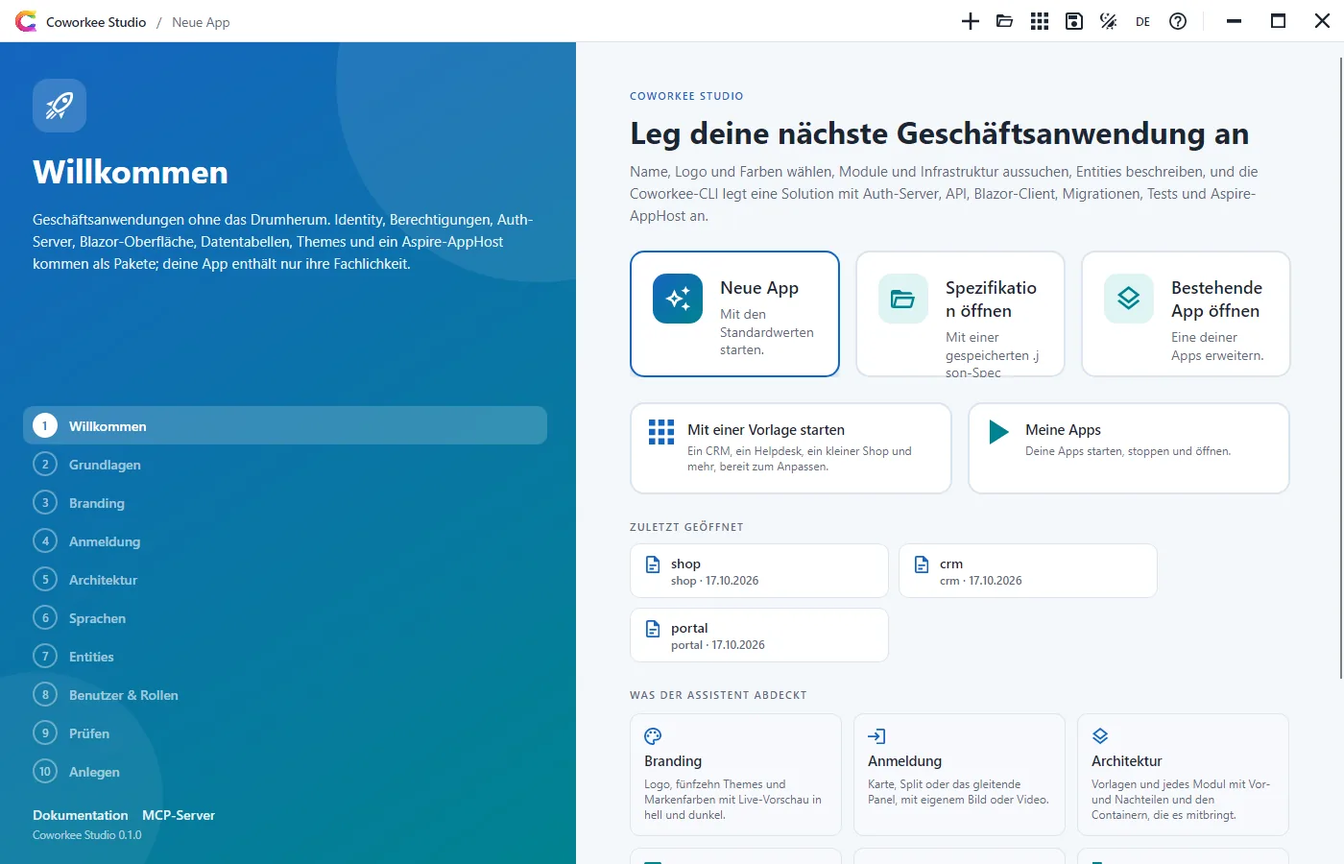
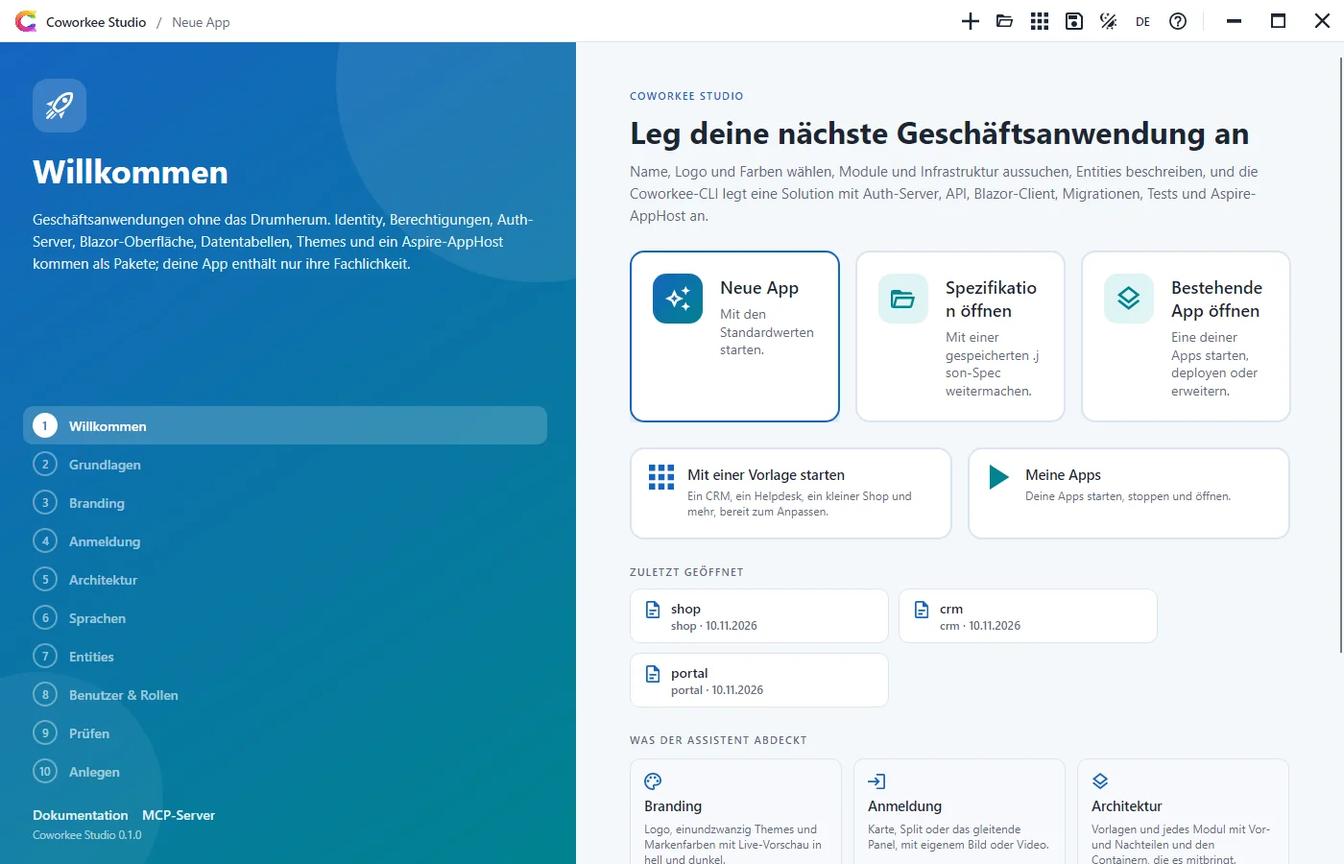
docs: Studio screenshots of the app overview, the Azure deploy wizard and the GitHub workflow editor; deploy to Azure on the home page; the Azure deployment is verified; Studio tiles and deploy card no longer cut their texts

diff --git a/website/overrides/home.html b/website/overrides/home.html
@@ -42,7 +42,10 @@
   "cli_doc": ("Alle Befehle" if de else "All commands"),
   "gallery_doc": ("Startvorlagen und Mini-Assistent" if de else "Starter specs and a mini wizard"),
   "studio": ("Lieber mit Oberfläche? Coworkee Studio" if de else "Prefer a UI? Coworkee Studio"),
-  "studio_t": ("<code>coworkee ui</code> installiert und startet Coworkee Studio, die Desktop-App zum CLI (Tool-Befehl <code>coworkee-ui</code>). Ein Assistent führt durch Name, Logo und Theme, Anmeldung, Module und Infrastruktur und deine Entities, zeigt Vor- und Nachteile jeder Wahl, legt die App an und startet sie." if de else "<code>coworkee ui</code> installs and starts Coworkee Studio, the desktop app for the CLI (tool command <code>coworkee-ui</code>). A wizard walks through name, logo and theme, sign-in, modules, infrastructure and your entities, shows what each choice brings and costs, creates the app and runs it."),
+  "studio_t": ("<code>coworkee ui</code> installiert und startet Coworkee Studio, die Desktop-App zum CLI (Tool-Befehl <code>coworkee-ui</code>). Ein Assistent führt durch Name, Logo und Theme, Anmeldung, Module und Infrastruktur und deine Entities, zeigt Vor- und Nachteile jeder Wahl, legt die App an und startet sie. Bestehende Apps öffnet es mit Übersicht, Laufstatus und Deployments. Auf Deutsch, Englisch, Französisch, Spanisch, Italienisch, Niederländisch, Polnisch und Portugiesisch." if de else "<code>coworkee ui</code> installs and starts Coworkee Studio, the desktop app for the CLI (tool command <code>coworkee-ui</code>). A wizard walks through name, logo and theme, sign-in, modules, infrastructure and your entities, shows what each choice brings and costs, creates the app and runs it. Existing apps open with an overview, their run status and deployments. In English, German, French, Spanish, Italian, Dutch, Polish and Portuguese."),
+  "deploy": ("Mit einem Schritt nach Azure" if de else "Deploy to Azure in one step"),
+  "deploy_t": ("Der Deploy-Assistent im Studio meldet über die Azure CLI an, fragt Abonnement, Ressourcengruppe und Region und deployt die App mit ihren Tools nach Azure Container Apps, alles in diese eine Ressourcengruppe. Auf der Kommandozeile macht das <code>coworkee deploy azure --apply</code>, und <code>--github</code> schreibt einen GitHub-Workflow, der jeden Branch in eine eigene Ressourcengruppe deployt." if de else "The deploy wizard in the Studio signs in through the Azure CLI, asks for subscription, resource group and region, and deploys the app with its tools to Azure Container Apps, all into that one resource group. On the command line <code>coworkee deploy azure --apply</code> does the same, and <code>--github</code> writes a GitHub workflow that deploys every branch into a resource group of its own."),
+  "deploy_more": ("Deployment" if de else "Deployment"),
   "mcp": ("Für KI-Assistenten" if de else "For AI assistants"),
   "mcp_t": ("<code>coworkee mcp</code> startet einen MCP-Server: Claude, Copilot und andere Assistenten legen Apps, Module und Migrationen über dieselben Befehle an." if de else "<code>coworkee mcp</code> starts an MCP server: Claude, Copilot and other assistants create apps, modules and migrations through the same commands."),
   "tour": ("Ein Rundgang durch die Demo-App" if de else "A tour of the demo app"),
@@ -489,6 +492,18 @@
             <p>{{ t.mcp_t }}</p>
             {{ code("coworkee mcp") }}
           </div>
+        </div>
+      </div>
+      <div class="cw-tour cw-deploy" id="deploy">
+        <div class="cw-tour__shots">
+          <a class="cw-zoom cw-tour__main" href="{{ shot('studio-deploy-light') }}" data-caption="{{ t.deploy }}"><img src="{{ shot('studio-deploy-light') }}" alt="{{ t.deploy }}" loading="lazy"></a>
+          <a class="cw-zoom cw-tour__side" href="{{ shot('studio-overview-light') }}" data-caption="{{ t.deploy }}"><img src="{{ shot('studio-overview-light') }}" alt="" loading="lazy"></a>
+        </div>
+        <div class="cw-tour__text">
+          <h3>{{ t.deploy }}</h3>
+          <p>{{ t.deploy_t }}</p>
+          {{ code("coworkee deploy azure --apply") }}
+          <p><a href="{{ (base ~ 'hosting/deployment/#deploying-from-your-machine' if not de else base ~ 'hosting/deployment/#von-deinem-rechner-deployen') | url }}">{{ t.deploy_more }} {% include ".icons/material/arrow-right.svg" %}</a></p>
         </div>
       </div>
     </div>

diff --git a/website/docs/assets/extra.css b/website/docs/assets/extra.css
@@ -319,6 +319,7 @@
 
 .cw-tour { display: grid; grid-template-columns: minmax(0, 1.5fr) minmax(0, 1fr); gap: 2.4rem; align-items: center; margin: 0 0 3.6rem; }
 .cw-tour:last-child { margin-bottom: 0; }
+.cw-deploy { margin-top: 3.6rem; }
 .cw-tour--flip { grid-template-columns: minmax(0, 1fr) minmax(0, 1.5fr); }
 .cw-tour--flip .cw-tour__shots { order: 2; }
 .cw-tour__shots { position: relative; padding: 0 0 12% 0; }

diff --git a/tests/Coworkee.Studio.Tests/ScreenshotTests.cs b/tests/Coworkee.Studio.Tests/ScreenshotTests.cs
@@ -10,7 +10,7 @@ public sealed class ScreenshotTests
     public static TheoryData<string, bool, string> Pages()
     {
         var data = new TheoryData<string, bool, string>();
-        foreach (var page in new[] { "welcome", "basics", "branding", "signin", "architecture", "ai", "languages", "entities", "entities-diagram", "entities-import", "users", "review", "generate", "run", "help", "gallery", "apps", "overview", "deploy" })
+        foreach (var page in new[] { "welcome", "basics", "branding", "signin", "architecture", "ai", "languages", "entities", "entities-diagram", "entities-import", "users", "review", "generate", "run", "help", "gallery", "apps", "overview", "deploy", "deploy-workflow" })
         {
             data.Add(page, false, "en");
             data.Add(page, true, "en");
@@ -88,9 +88,11 @@ public sealed class ScreenshotTests
         {
             var root = Directory.CreateDirectory(folder.File("apps/Shop")).FullName;
             File.WriteAllText(Path.Combine(root, "Shop.slnx"), "<Solution />");
+            Directory.CreateDirectory(Path.Combine(root, ".coworkee"));
+            File.WriteAllText(Coworkee.Cli.Spec.ExistingApp.StatePath(root), Coworkee.Cli.Spec.SpecJson.Write(main.ToSpec()));
             // off the UI thread: the awaits inside would wait for the thread this test blocks
             Task.Run(() => Coworkee.Cli.Spec.Deployments.WriteAsync(root, new Coworkee.Cli.Spec.DeploymentRecord("rg-shop", "azure", "00000000-0000-0000-0000-000000000000", "tenant", "rg-shop",
-                "germanywestcentral", "me@example.com", new DateTimeOffset(2026, 11, 8, 10, 15, 0, TimeSpan.FromHours(1)),
+                "germanywestcentral", "ada@example.com", new DateTimeOffset(2026, 11, 8, 10, 15, 0, TimeSpan.FromHours(1)),
                 new Dictionary<string, string> { ["shop-api"] = "https://shop-api.example.azurecontainerapps.io", ["shop-web"] = "https://shop-web.example.azurecontainerapps.io" }),
                 CancellationToken.None)).GetAwaiter().GetResult();
             main.ShowApp(root);
@@ -99,16 +101,30 @@ public sealed class ScreenshotTests
                 var wizard = new AzureDeployViewModel((AppOverviewViewModel)main.Page!)
                 {
                     SignIn = AzureSignIn.SignedIn,
-                    Account = "me@example.com",
+                    Account = "ada@example.com",
                     ResourceGroup = "rg-shop-test",
-                    AdminEmail = "me@example.com",
+                    AdminEmail = "ada@example.com",
                 };
-                wizard.Subscriptions.Add(new AzureSubscription("00000000-0000-0000-0000-000000000000", "Pay-As-You-Go", "tenant", true));
+                wizard.Subscriptions.Add(new AzureSubscription("00000000-0000-0000-0000-000000000000", "Contoso Subscription", "tenant", true));
                 wizard.Subscription = wizard.Subscriptions[0];
                 wizard.Tools.Single(t => t.Name == "grafana").IsOn = false;
                 wizard.Step = AzureStep.Summary;
                 main.Page = wizard;
             }
+        }
+
+        if (page == "deploy-workflow")
+        {
+            Scenario.Generated(main.Generate, main.Basics.Output!);
+            main.Generate.SignIn = null; // no passwords in the frame
+            main.Generate.Deploy.Target = "azure";
+            main.Generate.Deploy.IsOpen = true;
+            var workflow = main.Generate.DeployWorkflow;
+            workflow.Prefix = "shop";
+            workflow.Location = "germanywestcentral";
+            workflow.Branches = "main, release/*";
+            workflow.Teardown = true;
+            workflow.IsOpen = true;
         }
 
         if (page == "entities-diagram")
@@ -162,7 +178,7 @@ public sealed class ScreenshotTests
 
         StepViewModel step = page switch
         {
-            "welcome" => main.Welcome,
+            "welcome" or "overview" or "deploy" => main.Welcome,
             "basics" => main.Basics,
             "branding" => main.Branding,
             "signin" => main.SignIn,
@@ -171,7 +187,7 @@ public sealed class ScreenshotTests
             "entities" or "entities-diagram" or "entities-import" => main.Entities,
             "users" => main.Users,
             "review" => main.Review,
-            "generate" or "run" => main.Generate,
+            "generate" or "run" or "deploy-workflow" => main.Generate,
             _ => main.Architecture,
         };
 
@@ -180,6 +196,7 @@ public sealed class ScreenshotTests
         {
             "ai" => window => ScrollTo(window, "AiSection"),
             "run" => window => ScrollTo(window, "RunCard"),
+            "deploy-workflow" => window => ScrollTo(window, "DeployCard"),
             _ => null,
         });
         frame.PixelSize.Width.ShouldBe(1400);

diff --git a/website/docs/hosting/deployment.de.md b/website/docs/hosting/deployment.de.md
@@ -5,7 +5,7 @@ Der App-Host, der die App auf deinem Rechner startet, beschreibt auch ihr Deploy
 | Ziel | Befehl | Stand |
 |---|---|---|
 | Docker Compose | `coworkee deploy compose` | geprüft: eine generierte App mit Keycloak, Grafana, WebDataStudio und LibreTranslate läuft aus den veröffentlichten Dateien hinter einem HTTPS-Proxy; der angelegte Administrator meldet sich mit Passwort und über Keycloak an, Grafana zeigt die Daten der App, WebDataStudio öffnet die Datenbank, die maschinelle Übersetzung funktioniert. Ollama und AspireUI werden veröffentlicht und in den Dateien geprüft, aber nicht gestartet |
-| Azure Container Apps | `coworkee deploy azure` (`--apply` deployt, `--github` schreibt einen Deploy-Workflow) | Bicep mit den Tools erzeugt, jede Datei kompiliert mit `az bicep build`; nicht nach Azure deployt |
+| Azure Container Apps | `coworkee deploy azure` (`--apply` deployt, `--github` schreibt einen Deploy-Workflow) | Bicep mit den Tools erzeugt, jede Datei kompiliert mit `az bicep build`; `--apply` hat eine echte App mit allen Tools (Dienste, SQL Server, Keycloak, Grafana, WebDataStudio) nach Azure Container Apps deployt |
 | Kubernetes | `coworkee deploy k8s` | Helm-Chart mit den Tools erzeugt, `helm lint` und `kubeconform -strict` laufen durch; auf keinem Cluster installiert |
 
 ## Was sich im Deployment ändert
@@ -226,7 +226,7 @@ var database = builder.AddAzurePostgresFlexibleServer("postgres").RunAsContainer
 var app = builder.AddCoworkeeApp("myapp", options => options.UseDatabase(database));
 ```
 
-Dateien brauchen einen Speicher, den alle Replikate teilen: Erzeuge die App mit `--storage azureBlob`. Deployt wird mit `azd init` und `azd up`; dort setzt du die Parameter (öffentliche Adressen der Dienste und Tools, den Administrator, den Mailserver, die beiden Zertifikate, das Setup-Token; wie man sie erzeugt, zeigt `coworkee deploy compose`). Die Images der Tools, die Dateien der App mitbringen, entstehen aus Dockerfiles unter `src/<App>.AppHost/observability/.generated/publish`, die azd baut. Der Migrations-Job läuft, wenn du ihn startest: `az containerapp job start -n shop-migrations -g <ressourcengruppe>`, nach jedem Deployment. **Nicht geprüft:** Das Bicep kompiliert, ein echtes Deployment gab es noch nicht.
+Dateien brauchen einen Speicher, den alle Replikate teilen: Erzeuge die App mit `--storage azureBlob`. Deployt wird mit `azd init` und `azd up`; dort setzt du die Parameter (öffentliche Adressen der Dienste und Tools, den Administrator, den Mailserver, die beiden Zertifikate, das Setup-Token; wie man sie erzeugt, zeigt `coworkee deploy compose`). Die Images der Tools, die Dateien der App mitbringen, entstehen aus Dockerfiles unter `src/<App>.AppHost/observability/.generated/publish`, die azd baut. Der Migrations-Job läuft, wenn du ihn startest: `az containerapp job start -n shop-migrations -g <ressourcengruppe>`, nach jedem Deployment. **Nicht geprüft:** dieser Weg mit azd; das Bicep kompiliert. `coworkee deploy azure --apply` (oben) hat eine echte App deployt.
 
 ### Von deinem Rechner deployen
 
@@ -236,6 +236,10 @@ coworkee deploy azure --resource-group shop-test --location germanywestcentral -
 ```
 
 veröffentlicht den App-Host, prüft das Konto, mit dem die Azure CLI angemeldet ist, und lässt Aspire genau in diese Ressourcengruppe bauen, pushen und deployen (sie wird angelegt, wenn sie fehlt; im Abonnement selbst entsteht nichts). Danach startet es den Migrations-Job und schreibt `.coworkee/deployments/<name>.json` mit den Adressen. Die Parameter, die es erzeugt (Administrator, Passwörter, Zertifikate, Push-Schlüssel), liegen in `.coworkee/deployments/<name>.secrets.json`, die Git ignoriert; das nächste Deployment mit demselben Namen nimmt sie wieder, damit Datenbankpasswort und Token-Zertifikate bleiben. `--name` benennt das Deployment (Standard: die Ressourcengruppe), `--subscription` wählt ein anderes Abonnement als das der Azure CLI, `--yes` überspringt die Rückfrage, `--admin-email` setzt den Administrator (Standard: das angemeldete Konto). Umgebungsvariablen mit den Namen der `.env`-Schlüssel von Docker Compose (`SHOP_ADMIN_EMAIL`, `SHOP_ADMIN_PASSWORD`, `SHOP_SMTP_HOST`, ...) werden genommen, solange noch nichts gespeichert ist.
+
+In [Coworkee Studio](../getting-started/studio.md#deployen) führt **Deployen …** in der Übersicht einer App denselben Befehl als Assistent aus: Er prüft die Anmeldung der Azure CLI, dann wählst du Abonnement, Ressourcengruppe (neu oder eine deiner Gruppen), Region, Administrator und Tools, und die Zusammenfassung zeigt, dass alles in diese eine Ressourcengruppe geht. **Deployen** führt `coworkee deploy azure --apply --yes` mit diesen Werten aus und zeigt die Ausgabe live; **Aktualisieren** bei einem gespeicherten Deployment führt ihn mit den Werten seines Eintrags erneut aus.
+
+![Der Deploy-Assistent von Coworkee Studio, Zusammenfassung](../assets/screenshots/studio-deploy-light-de.webp)
 
 ### Jeden Branch mit GitHub Actions deployen
 
@@ -252,7 +256,9 @@ schreibt `.github/workflows/deploy-azure.yml`: Jeder Push auf einen der Branches
 | Branches (`*` wie in GitHub) | `--branches` | `deployBranches` (durch Kommas getrennt) | `main` |
 | Mit dem Branch löschen | `--teardown-on-delete true` | `deployTeardown` | `false` |
 
-Sie liegen wie jede Option in `.coworkee/app.json`: `coworkee deploy azure --github` ohne Schalter schreibt den Workflow daraus neu (etwa nach einem `coworkee update`), und das Studio zeigt sie in der Deploy-Karte unter *GitHub-Deploy-Workflow …*, wo du sie änderst und den Workflow neu schreibst. Die erste Zeile der Datei enthält einen Hash dessen, was coworkee geschrieben hat. Änderst du die Datei von Hand, merkt coworkee das: Die CLI überschreibt sie nur mit `--force`, das Studio fragt, ob es deine Änderungen überschreiben oder deine Datei behalten soll, `coworkee add` lässt sie mit einer Warnung stehen, und `coworkee remove deployWorkflow` löscht sie nur, wenn sie unverändert ist.
+Sie liegen wie jede Option in `.coworkee/app.json`: `coworkee deploy azure --github` ohne Schalter schreibt den Workflow daraus neu (etwa nach einem `coworkee update`), und das Studio zeigt sie in der Deploy-Karte unter *GitHub-Deploy-Workflow …*, wo du sie änderst und den Workflow neu schreibst (unten zu sehen). Die erste Zeile der Datei enthält einen Hash dessen, was coworkee geschrieben hat. Änderst du die Datei von Hand, merkt coworkee das: Die CLI überschreibt sie nur mit `--force`, das Studio fragt, ob es deine Änderungen überschreiben oder deine Datei behalten soll, `coworkee add` lässt sie mit einer Warnung stehen, und `coworkee remove deployWorkflow` löscht sie nur, wenn sie unverändert ist.
+
+![Der GitHub-Deploy-Workflow in Coworkee Studio](../assets/screenshots/studio-deploy-workflow-light-de.webp)
 
 Was ein Lauf tut:
 

diff --git a/website/docs/hosting/deployment.md b/website/docs/hosting/deployment.md
@@ -5,7 +5,7 @@ The app host that runs the app on your machine also describes its deployment. `c
 | Target | Command | Status |
 |---|---|---|
 | Docker Compose | `coworkee deploy compose` | verified: a generated app with Keycloak, Grafana, WebDataStudio and LibreTranslate runs from the published files behind an HTTPS proxy; the seeded administrator signs in with the password and through Keycloak, Grafana shows the app's data, WebDataStudio opens the database, machine translation works. Ollama and AspireUI are published and checked in the files, not started |
-| Azure Container Apps | `coworkee deploy azure` (`--apply` deploys, `--github` writes a deploy workflow) | Bicep generated with the tools, every file compiles with `az bicep build`; not deployed to Azure |
+| Azure Container Apps | `coworkee deploy azure` (`--apply` deploys, `--github` writes a deploy workflow) | Bicep generated with the tools, every file compiles with `az bicep build`; `--apply` deployed a real app with all tools (services, SQL Server, Keycloak, Grafana, WebDataStudio) to Azure Container Apps |
 | Kubernetes | `coworkee deploy k8s` | Helm chart generated with the tools, `helm lint` and `kubeconform -strict` pass; not installed on a cluster |
 
 ## What changes in a deployment
@@ -226,7 +226,7 @@ var database = builder.AddAzurePostgresFlexibleServer("postgres").RunAsContainer
 var app = builder.AddCoworkeeApp("myapp", options => options.UseDatabase(database));
 ```
 
-Files need a storage that every replica shares: generate the app with `--storage azureBlob`. Deploy with `azd init` and `azd up`, and set the parameters there (public addresses of the services and tools, the administrator, the mail server, the two certificates, the setup token; `coworkee deploy compose` shows how to generate them). The images of the tools that carry files of the app come from Dockerfiles below `src/<App>.AppHost/observability/.generated/publish`, which azd builds. The migrations job runs when you start it: `az containerapp job start -n shop-migrations -g <resource group>`, after every deployment. **Not verified:** the Bicep compiles, a real deployment has not been made.
+Files need a storage that every replica shares: generate the app with `--storage azureBlob`. Deploy with `azd init` and `azd up`, and set the parameters there (public addresses of the services and tools, the administrator, the mail server, the two certificates, the setup token; `coworkee deploy compose` shows how to generate them). The images of the tools that carry files of the app come from Dockerfiles below `src/<App>.AppHost/observability/.generated/publish`, which azd builds. The migrations job runs when you start it: `az containerapp job start -n shop-migrations -g <resource group>`, after every deployment. **Not verified:** this azd path; the Bicep compiles. `coworkee deploy azure --apply` (above) deployed a real app.
 
 ### Deploying from your machine
 
@@ -236,6 +236,10 @@ coworkee deploy azure --resource-group shop-test --location germanywestcentral -
 ```
 
 publishes the app host, checks the account the Azure CLI is signed in with, and lets Aspire build, push and deploy into exactly that resource group (made when missing; nothing is created at the subscription). Then it runs the migrations job and writes `.coworkee/deployments/<name>.json` with the addresses. The parameters it generates (administrator, passwords, certificates, push keys) are kept in `.coworkee/deployments/<name>.secrets.json`, which is git ignored; the next deployment with the same name takes them again, so the database password and the token certificates stay. `--name` names the deployment (default: the resource group), `--subscription` picks another subscription than the Azure CLI's, `--yes` skips the question, `--admin-email` sets the administrator (default: the signed-in account). Values set as environment variables named like the `.env` keys of Docker Compose (`SHOP_ADMIN_EMAIL`, `SHOP_ADMIN_PASSWORD`, `SHOP_SMTP_HOST`, ...) are taken when nothing is kept yet.
+
+In [Coworkee Studio](../getting-started/studio.md#deploy), **Deploy…** on the overview of an app runs the same command as a wizard: it checks the Azure CLI sign-in, then you pick the subscription, the resource group (new or one of yours), the region, the administrator and the tools, and the summary shows that everything goes into that one resource group. **Deploy** runs `coworkee deploy azure --apply --yes` with those values and shows its output live; **Update** on a recorded deployment runs it again with the values of its record.
+
+![The deploy wizard of Coworkee Studio, summary](../assets/screenshots/studio-deploy-light.webp)
 
 ### Deploying every branch with GitHub Actions
 
@@ -252,7 +256,9 @@ writes `.github/workflows/deploy-azure.yml`: every push to one of the branches d
 | Branches (`*` as in GitHub) | `--branches` | `deployBranches` (comma separated) | `main` |
 | Delete with the branch | `--teardown-on-delete true` | `deployTeardown` | `false` |
 
-They are kept in `.coworkee/app.json` like every option: `coworkee deploy azure --github` without switches writes the workflow anew from them (after a `coworkee update`, for example), and the Studio shows them in the deploy card under *GitHub deploy workflow…*, where you change them and write the workflow again. The first line of the file holds a hash of what coworkee wrote. When you change the file by hand, coworkee notices it: the CLI refuses to overwrite it unless you pass `--force`, the Studio asks whether to overwrite your changes or keep your file, `coworkee add` leaves it alone with a warning, and `coworkee remove deployWorkflow` deletes it only when it is unchanged.
+They are kept in `.coworkee/app.json` like every option: `coworkee deploy azure --github` without switches writes the workflow anew from them (after a `coworkee update`, for example), and the Studio shows them in the deploy card under *GitHub deploy workflow…*, where you change them and write the workflow again (shown below). The first line of the file holds a hash of what coworkee wrote. When you change the file by hand, coworkee notices it: the CLI refuses to overwrite it unless you pass `--force`, the Studio asks whether to overwrite your changes or keep your file, `coworkee add` leaves it alone with a warning, and `coworkee remove deployWorkflow` deletes it only when it is unchanged.
+
+![The GitHub deploy workflow in Coworkee Studio](../assets/screenshots/studio-deploy-workflow-light.webp)
 
 What a run does:
 

diff --git a/website/docs/getting-started/studio.de.md b/website/docs/getting-started/studio.de.md
@@ -1,6 +1,6 @@
 # Coworkee Studio
 
-Coworkee Studio ist der Desktop-Assistent der [Kommandozeile](cli.md). Er führt Seite für Seite durch eine neue App, erklärt, was jede Entscheidung bringt und kostet, zeigt Logo, Theme und Anmeldedesign als Vorschau, nimmt deine Entities auf und lässt die CLI die Solution anlegen. Er läuft unter Windows, macOS und Linux.
+Coworkee Studio ist der Desktop-Assistent der [Kommandozeile](cli.md). Er führt Seite für Seite durch eine neue App, erklärt, was jede Entscheidung bringt und kostet, zeigt Logo, Theme und Anmeldedesign als Vorschau, nimmt deine Entities auf und lässt die CLI die Solution anlegen. Bestehende Apps öffnen sich mit einer Übersicht, in der du sie startest und [nach Azure deployst](#deployen). Er läuft unter Windows, macOS und Linux und spricht acht Sprachen.
 
 ![Coworkee Studio](../assets/screenshots/studio-architecture-light-de.webp)
 
@@ -138,11 +138,13 @@ Das Studio schreibt die Spezifikation, ruft `coworkee spec validate` und `cowork
 
 **App starten** führt `dotnet run --project <App-Host>` im Studio aus. Die Karte zeigt, ob der App-Host startet, läuft oder gescheitert ist, und im Fehlerfall die Zeile, die es erklärt (ein belegter Port, ein Build-Fehler). Sobald er läuft, verlinkt sie das Aspire-Dashboard (die Anmeldeadresse mit Token, aus der Ausgabe gelesen) und die Adressen von Web-App, API und Auth-Server (aus ihren Launch Settings). Solange die App noch nicht eingerichtet ist, zeigt die Karte das [Setup-Token](../security/authentication.md#setup-assistent-oder-seed) mit Kopierknopf, wie *Meine Apps* auch. Die Ausgabe des App-Hosts ist einen Klick entfernt; **Stoppen** beendet den App-Host und alles, was er gestartet hat, ebenso das Schließen des Studios.
 
+![Laufende App](../assets/screenshots/studio-run-light-de.webp)
+
 **Deployen** ist der optionale letzte Schritt: Wähl ein Ziel (`compose`, `azure` oder `k8s`), und das Studio startet `coworkee deploy` im Ordner der App und zeigt die Ausgabe live, am Ende mit den Adressen der Dienste und Tools und der Anmeldung des Administrators. Das schreibt die Deployment-Dateien; für ein Deployment nach Azure mit Anmeldung und Ressourcengruppe nimm **Deployen …** in der Übersicht der App (siehe [Deployen](#deployen)). Siehe [Deployment](../hosting/deployment.md).
 
 **GitHub-Deploy-Workflow …** in der Deploy-Karte zeigt die Einstellungen des Deploy-Workflows der App (Präfix der Ressourcengruppen, Azure-Region, Branches, mit dem Branch löschen) aus `.coworkee/app.json` und schreibt `.github/workflows/deploy-azure.yml` mit `coworkee deploy azure --github`. Wurde die Datei von Hand geändert, fragt das Studio, ob es deine Änderungen überschreiben oder deine Datei behalten soll. Eine neue App bekommt den Workflow über die Option *Deploy-Workflow* in der Gruppe Tooling. Siehe [Jeden Branch mit GitHub Actions deployen](../hosting/deployment.md#jeden-branch-mit-github-actions-deployen).
 
-![Laufende App](../assets/screenshots/studio-run-light-de.webp)
+![GitHub-Deploy-Workflow](../assets/screenshots/studio-deploy-workflow-light-de.webp)
 
 ### Bestehende App öffnen
 
@@ -153,6 +155,8 @@ Das Studio schreibt die Spezifikation, ruft `coworkee spec validate` und `cowork
 - **Deployments**: jeder Eintrag in `.coworkee/deployments/*.json` im Ordner der App mit Ziel, Ressourcengruppe, Region, Azure-Konto, letztem Deployment und den öffentlichen Adressen als Links; **Aktualisieren** deployt ihn erneut, **Deployen …** beginnt ein neues (siehe [Deployen](#deployen))
 - Ordner, Solution oder VS Code öffnen
 - **Im Assistenten bearbeiten** für Änderungen an der App
+
+![Übersicht einer App mit einem Deployment](../assets/screenshots/studio-overview-light-de.webp)
 
 **Im Assistenten bearbeiten** (in *Meine Apps* auch **Im Studio bearbeiten**) öffnet den Assistenten auf *Prüfen* mit dem Stand der App: ihrer `.coworkee/app.json` oder, bei älteren Apps, den Optionen, die ihre Dateien zeigen. Schalte Module und Optionen ein, ergänze Sprachen, Module und Entities, dann **Änderungen anzeigen**: Das Studio ruft `coworkee add --spec ... --dry-run` im Ordner der App auf und zeigt den Plan (Optionen, Dateien zum Hinzufügen, Aktualisieren, Zusammenführen oder Löschen, Konflikte, zu erzeugende Module und Entities). **Änderungen übernehmen** führt ihn wirklich aus, mit derselben Live-Ausgabe wie *Anlegen*; Dateien, deren Änderungen sich nicht zusammenführen ließen, stehen danach als `.rej`-Dateien in der Liste, siehe [Eine bestehende App ändern](cli.md#eine-bestehende-app-andern).
 
@@ -172,6 +176,8 @@ coworkee deploy azure --apply --yes --resource-group <rg> --location <region> --
 ```
 
 im Ordner der App aus, mit der Ausgabe live wie bei *Anlegen*. Die CLI fragt nichts (sie bekommt keine Eingabe), baut, pusht und deployt (einige Minuten), startet den Migrations-Job und schreibt den Eintrag `.coworkee/deployments/<name>.json`: Ziel, Abonnement, Tenant, Ressourcengruppe, Region, Konto, Zeitpunkt, die öffentlichen Adressen der Container Apps und die Tool-Schalter. Bei Erfolg zeigt das Studio die Adressen als Links und, wo das Passwort des Administrators steht: `.coworkee/deployments/<name>.secrets.json`, das die CLI aus git heraushält. Das Passwort selbst zeigt das Studio nie. Zurück in der Übersicht steht das Deployment in der Liste.
+
+![Deploy-Assistent, Zusammenfassung](../assets/screenshots/studio-deploy-light-de.webp)
 
 **Aktualisieren** bei einem Deployment öffnet denselben Assistenten mit den Werten seines Eintrags (Abonnement, Ressourcengruppe, Region, Name, Tools). Nach der Anmeldeprüfung geht er direkt zur Zusammenfassung; **Deployen** führt denselben Befehl erneut aus, und die aufbewahrten Parameter (Administrator, Passwörter, Zertifikate) bleiben, wie sie waren. **Zurück** führt zu den Schritten davor, um vorher etwas zu ändern. Was die CLI deployt, steht unter [Deployment](../hosting/deployment.md).
 

diff --git a/website/docs/getting-started/studio.md b/website/docs/getting-started/studio.md
@@ -1,6 +1,6 @@
 # Coworkee Studio
 
-Coworkee Studio is the desktop wizard of the [command line](cli.md). It walks through a new app page by page, explains what every choice brings and costs, previews logo, theme and sign-in design, lets you describe your entities and has the CLI create the solution. It runs on Windows, macOS and Linux.
+Coworkee Studio is the desktop wizard of the [command line](cli.md). It walks through a new app page by page, explains what every choice brings and costs, previews logo, theme and sign-in design, lets you describe your entities and has the CLI create the solution. Existing apps open with an overview, where you run them and [deploy them to Azure](#deploy). It runs on Windows, macOS and Linux and speaks eight languages.
 
 ![Coworkee Studio](../assets/screenshots/studio-architecture-light.webp)
 
@@ -138,11 +138,13 @@ The Studio writes the spec, runs `coworkee spec validate` and `coworkee new --sp
 
 **Run the app** starts `dotnet run --project <app host>` inside the Studio. The card shows whether the app host is starting, running or has failed, and on failure the line that explains it (a port in use, a build error). Once it is up it links the Aspire dashboard (the login address with its token, read from the output) and the addresses of the web app, the API and the auth server (from their launch settings). While the app is not set up yet, the card shows the [setup token](../security/authentication.md#setup-wizard-or-seed) with a copy button, as *My apps* does. The output of the app host is one click away; **Stop** ends the app host and what it started, and so does closing the Studio.
 
+![Running app](../assets/screenshots/studio-run-dark.webp)
+
 **Deploy** is the optional last step: pick a target (`compose`, `azure` or `k8s`) and the Studio runs `coworkee deploy` in the app's folder with its output live, ending with the addresses of the services and tools and the administrator's sign-in. This writes the deployment files; to deploy to Azure with sign-in and resource group, use **Deploy…** on the app's overview (see [Deploy](#deploy)). See [Deployment](../hosting/deployment.md).
 
 **GitHub deploy workflow…** in the deploy card shows the settings of the app's deploy workflow (resource group prefix, Azure region, branches, delete with the branch) from `.coworkee/app.json` and writes `.github/workflows/deploy-azure.yml` with `coworkee deploy azure --github`. When the file was changed by hand, the Studio asks whether to overwrite your changes or keep your file. A new app gets the workflow from the option *Deploy workflow* in the Tooling group. See [Deploying every branch with GitHub Actions](../hosting/deployment.md#deploying-every-branch-with-github-actions).
 
-![Running app](../assets/screenshots/studio-run-dark.webp)
+![GitHub deploy workflow](../assets/screenshots/studio-deploy-workflow-light.webp)
 
 ### Open existing app
 
@@ -153,6 +155,8 @@ The Studio writes the spec, runs `coworkee spec validate` and `coworkee new --sp
 - **Deployments**: every record in `.coworkee/deployments/*.json` of the app folder with target, resource group, region, the Azure account, when it was last deployed and the public addresses as links; **Update** deploys it again, **Deploy…** starts a new one (see [Deploy](#deploy))
 - open the folder, the solution or VS Code
 - **Edit in the wizard** for changes to the app
+
+![App overview with a deployment](../assets/screenshots/studio-overview-light.webp)
 
 **Edit in the wizard** (in *My apps* also **Edit in the Studio**) opens the wizard on *Review* with the app's state: its `.coworkee/app.json`, or for older apps the options its files show. Switch modules and options on, add languages, modules and entities, then **Show the changes**: the Studio runs `coworkee add --spec ... --dry-run` in the app's folder and shows the plan (options, files to add, update, merge or delete, conflicts, modules and entities to generate). **Apply the changes** runs it for real, with the same live log as *Create*; files whose changes did not merge are listed as `.rej` files afterwards, see [Changing an existing app](cli.md#changing-an-existing-app).
 
@@ -172,6 +176,8 @@ coworkee deploy azure --apply --yes --resource-group <rg> --location <region> --
 ```
 
 in the app's folder with its output live, as on *Create*. The CLI asks nothing (it gets no input) and builds, pushes and deploys (several minutes), runs the migrations job and writes the record `.coworkee/deployments/<name>.json`: target, subscription, tenant, resource group, region, account, time, the public addresses of the container apps and the tool switches. On success the Studio shows the addresses as links and where the administrator's password is: `.coworkee/deployments/<name>.secrets.json`, which the CLI keeps out of git. The Studio never shows the password itself. Back on the overview, the deployment is in the list.
+
+![Deploy wizard, summary](../assets/screenshots/studio-deploy-light.webp)
 
 **Update** on a deployment opens the same wizard with the values of its record (subscription, resource group, region, name, tools). After the sign-in check it goes straight to the summary; **Deploy** runs the same command again, and the kept parameters (administrator, passwords, certificates) stay as they were. **Back** goes to the steps before, to change something first. See [Deployment](../hosting/deployment.md) for what the CLI deploys.
 

diff --git a/website/docs/reference/changelog.de.md b/website/docs/reference/changelog.de.md
@@ -2,6 +2,12 @@
 
 Änderungen, die in Apps auf Basis von Coworkee Handlungsbedarf auslösen. Neueste zuerst.
 
+## Unveröffentlicht
+
+### Behoben
+
+- Coworkee Studio: Die Kacheln der Startseite wachsen mit ihrem Text, statt ihn abzuschneiden (*Eine deiner Apps starten, deployen oder erweitern.*); die Deploy-Karte der Anlegen-Seite setzt ihre Schaltflächen unter den Statustext, den sie auf wenige Buchstaben pro Zeile gedrückt hatten.
+
 ## 0.0.1.70 (2026-11-09)
 
 ### Neu

diff --git a/website/docs/reference/changelog.md b/website/docs/reference/changelog.md
@@ -2,6 +2,12 @@
 
 Changes that need action in apps built on Coworkee. Newest first.
 
+## Unreleased
+
+### Fixed
+
+- Coworkee Studio: the tiles of the start page grow with their text instead of cutting it off (*Run, deploy or extend an app you made.*); the deploy card of the create page puts its buttons under the status text, which they squeezed to a few letters per line.
+
 ## 0.0.1.70 (2026-11-09)
 
 ### Added
